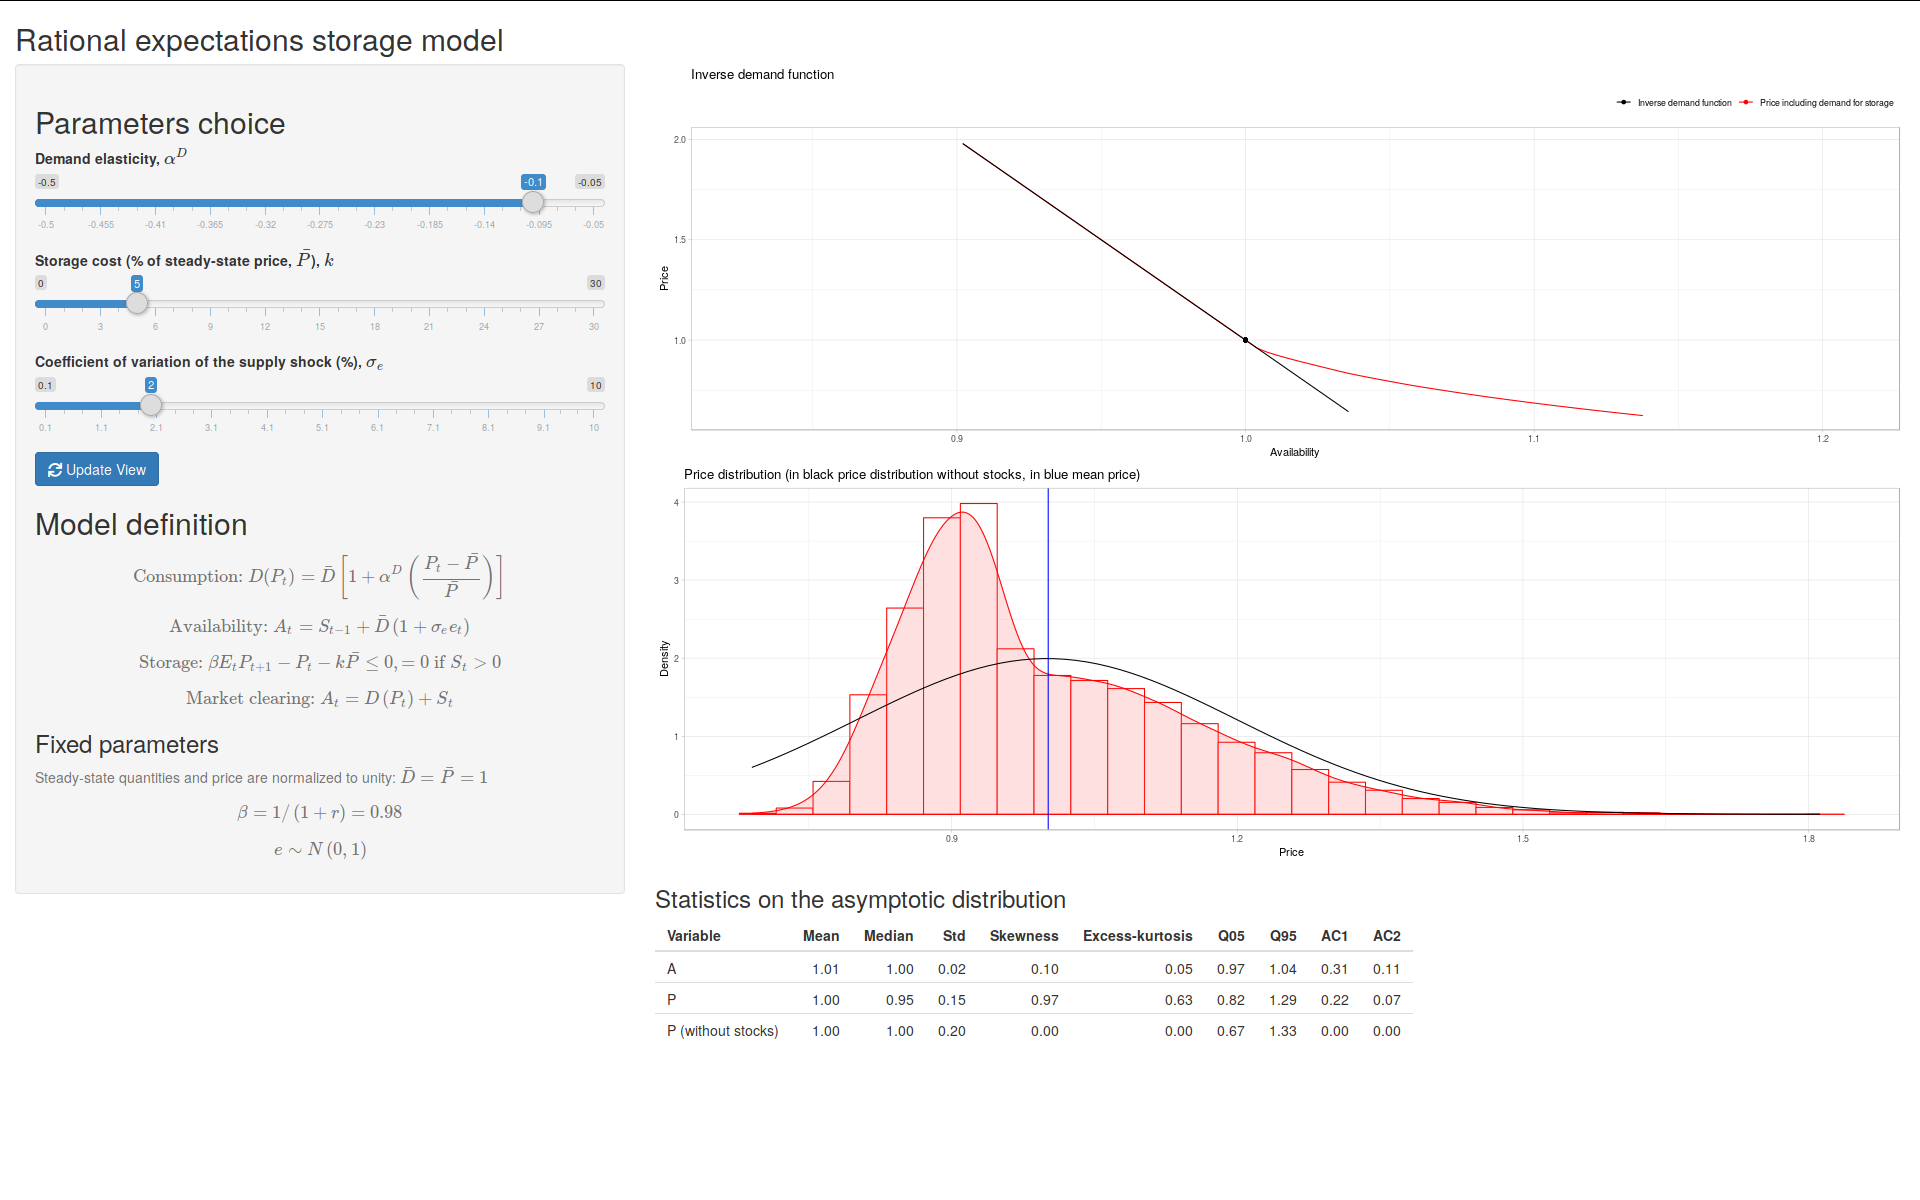
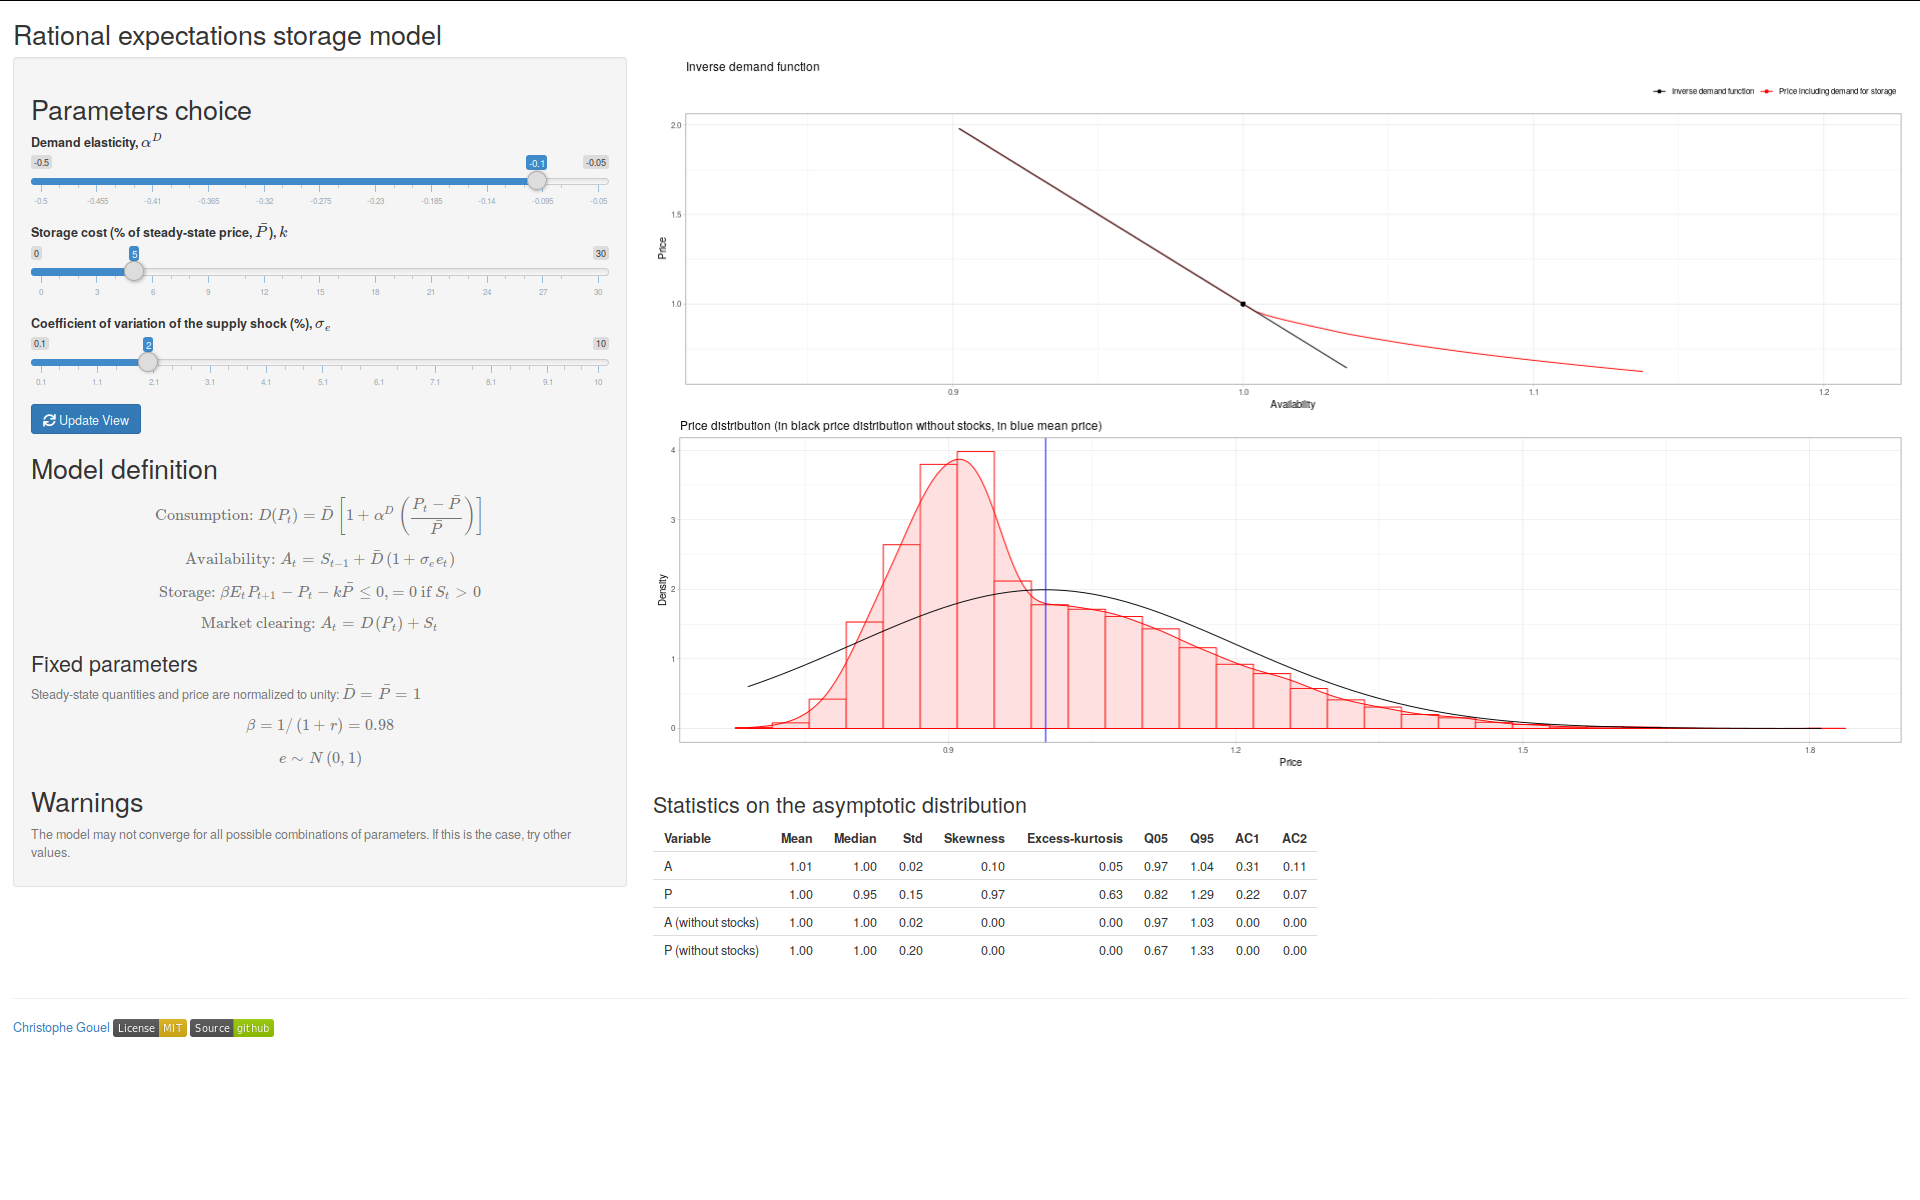
Add badges and statistics for availability without stocks

diff --git a/README.md b/README.md
@@ -11,7 +11,7 @@ Review of Economic Studies)](https://doi.org/10.2307/2297923).
 
 You can launch the application from R with
 ```r
-shiny::runGitHub(repo = "christophe-gouel/shiny-storage", ref = "mybinder", subdir = "app")
+shiny::runGitHub(repo = "christophe-gouel/shiny-storage", subdir = "app")
 ```
 or use it online at
 <https://christophe-gouel.shinyapps.io/Storage-model/>.

diff --git a/app/badges.md b/app/badges.md
@@ -1,0 +1,1 @@
+[Christophe Gouel](https://www.christophegouel.com) [![License: MIT](https://img.shields.io/badge/License-MIT-yellow.svg)](https://opensource.org/licenses/MIT) [![Source](https://img.shields.io/badge/Source-github-green.svg)](https://github.com/christophe-gouel/shiny-storage)
